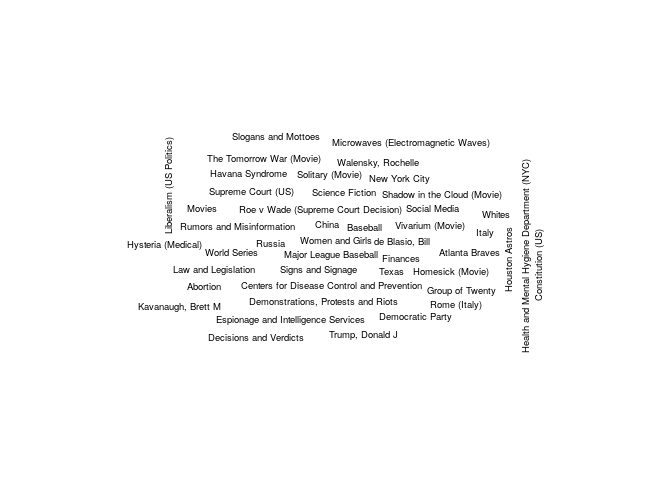
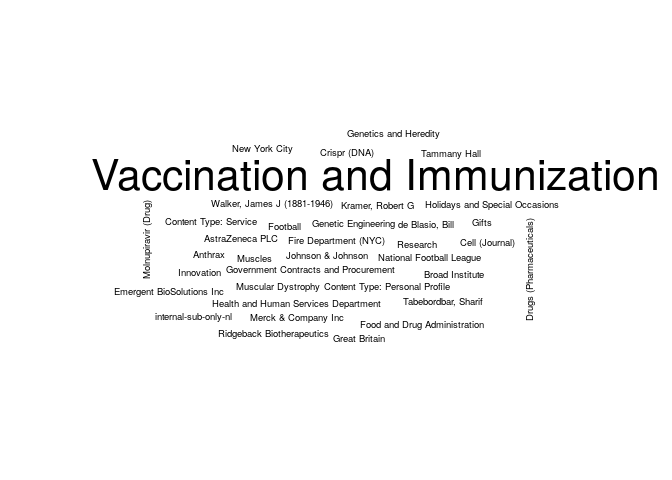
Updating the NYT report

Changed region(s): [[0.125, 0.25, 1.0, 0.7188]]

diff --git a/03-nytimes/README.md b/03-nytimes/README.md
@@ -5,7 +5,7 @@ The following is an example of how to use the [NYTimes
 API](https://developer.nytimes.com/) to get a list of articles related
 to a particular term. Here we are searching articles that include the
 term `"health"`, and that were published up to seven days ago since
-2021-11-01.
+2021-11-08.
 
 ``` r
 # Preparing a function to use the GET method with the NYTimes API
@@ -83,25 +83,25 @@ colnames(tab) <- c("Keyword", "# Articles")
 knitr::kable(tab, row.names = FALSE)
 ```
 
-| Keyword                                    | \# Articles |
-|:-------------------------------------------|------------:|
-| Coronavirus (2019-nCoV)                    |          30 |
-| Vaccination and Immunization               |          30 |
-| United States Politics and Government      |          20 |
-| Abortion                                   |          10 |
-| Atlanta Braves                             |          10 |
-| Baseball                                   |          10 |
-| Centers for Disease Control and Prevention |          10 |
-| China                                      |          10 |
-| Constitution (US)                          |          10 |
-| de Blasio, Bill                            |          10 |
-| Decisions and Verdicts                     |          10 |
-| Democratic Party                           |          10 |
-| Demonstrations, Protests and Riots         |          10 |
-| Espionage and Intelligence Services        |          10 |
-| Finances                                   |          10 |
-| Group of Twenty                            |          10 |
-| Havana Syndrome                            |          10 |
-| Health and Mental Hygiene Department (NYC) |          10 |
-| Homesick (Movie)                           |          10 |
-| Houston Astros                             |          10 |
+| Keyword                              | \# Articles |
+|:-------------------------------------|------------:|
+| Coronavirus (2019-nCoV)              |          30 |
+| Vaccination and Immunization         |          20 |
+| Anthrax                              |          10 |
+| AstraZeneca PLC                      |          10 |
+| Broad Institute                      |          10 |
+| Cell (Journal)                       |          10 |
+| Content Type: Personal Profile       |          10 |
+| Content Type: Service                |          10 |
+| Crispr (DNA)                         |          10 |
+| de Blasio, Bill                      |          10 |
+| Drugs (Pharmaceuticals)              |          10 |
+| Emergent BioSolutions Inc            |          10 |
+| Fire Department (NYC)                |          10 |
+| Food and Drug Administration         |          10 |
+| Football                             |          10 |
+| Genetic Engineering                  |          10 |
+| Genetics and Heredity                |          10 |
+| Gifts                                |          10 |
+| Government Contracts and Procurement |          10 |
+| Great Britain                        |          10 |
